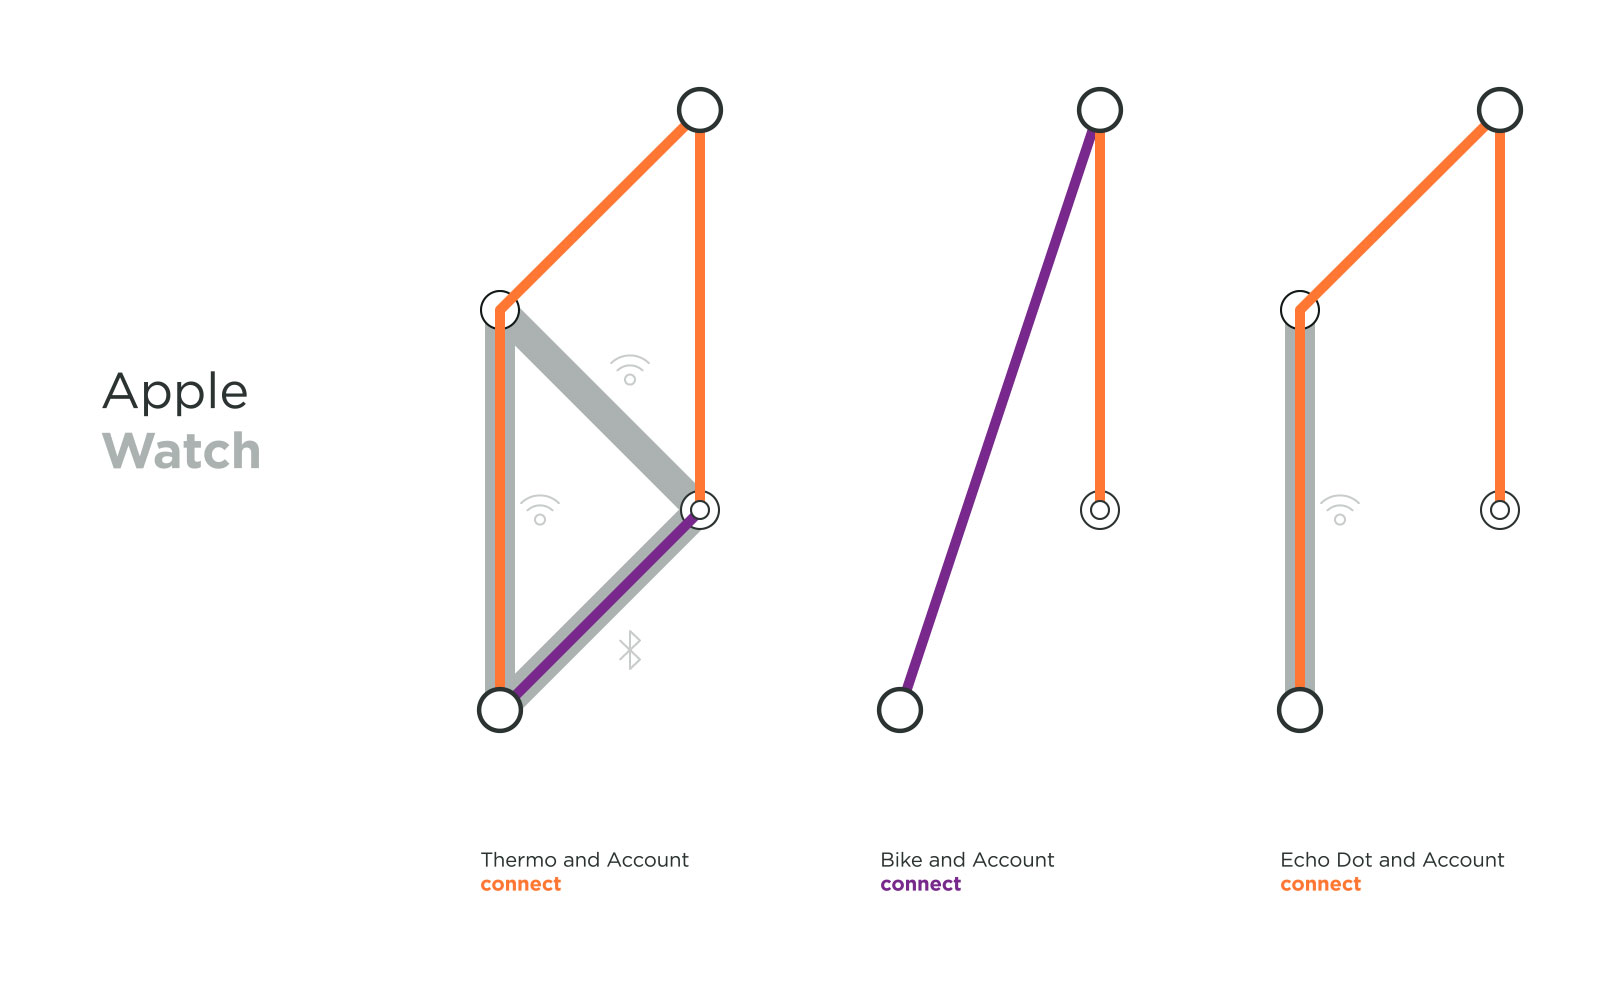
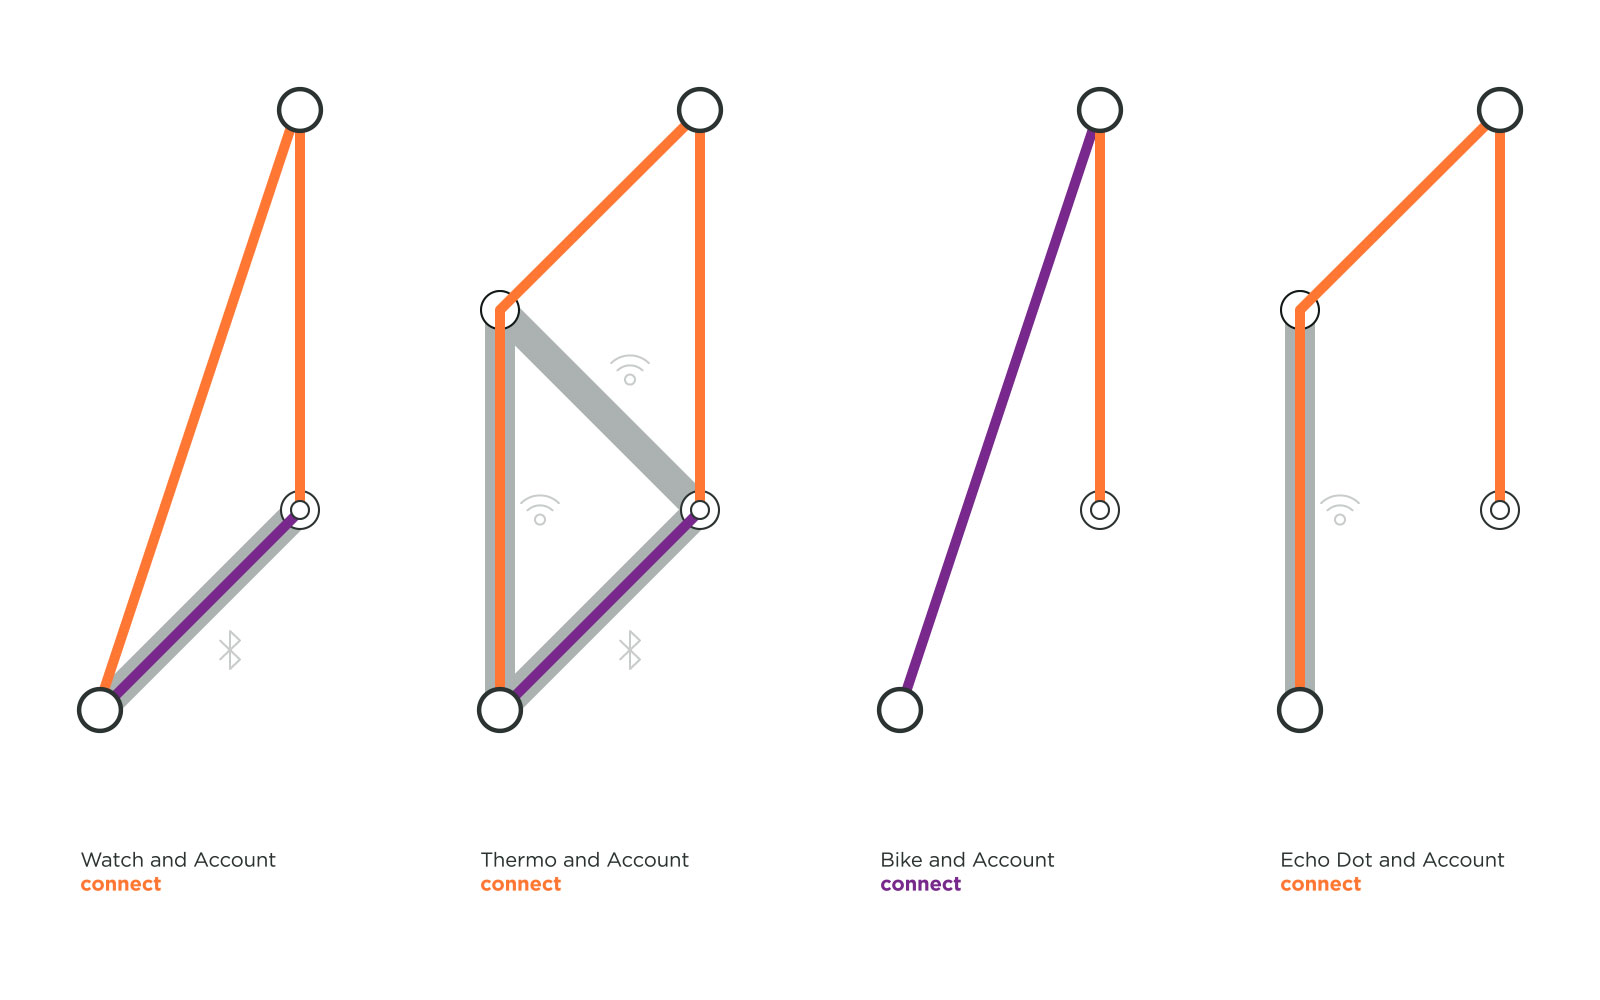
article update
-gifs in matrix are the real Things
-images fixed in the pattern part

Changed region(s): [[0.0312, 0.093, 0.2188, 0.744], [0.0625, 0.837, 0.1875, 0.899]]

diff --git a/source/blog/2018/02-02-connection-flows.html.md b/source/blog/2018/02-02-connection-flows.html.md
@@ -17,11 +17,13 @@ As we were researching around twenty connected products, we established a framew
 
 | | | | |
 |-|-|-|-|
-| <img style="width:20%">![things](02-02-connection-flows/p_240-380.gif) | <img style="width:20%">![things](02-02-connection-flows/p_240-380.gif) | <img style="width:20%">![things](02-02-connection-flows/p_240-380.gif) | <img style="width:20%">![things](02-02-connection-flows/p_240-380.gif) |
-| <img style="width:20%">![things](02-02-connection-flows/p_240-380.gif) | <img style="width:20%">![things](02-02-connection-flows/p_240-380.gif) | <img style="width:20%">![things](02-02-connection-flows/p_240-380.gif) | <img style="width:20%">![things](02-02-connection-flows/p_240-380.gif) |
-| <img style="width:20%">![things](02-02-connection-flows/p_240-380.gif) | <img style="width:20%">![things](02-02-connection-flows/p_240-380.gif) | <img style="width:20%">![things](02-02-connection-flows/p_240-380.gif) | <img style="width:20%">![things](02-02-connection-flows/p_240-380.gif) |
-| <img style="width:20%">![things](02-02-connection-flows/p_240-380.gif) | <img style="width:20%">![things](02-02-connection-flows/p_240-380.gif) | <img style="width:20%">![things](02-02-connection-flows/p_240-380.gif) | <img style="width:20%">![things](02-02-connection-flows/p_240-380.gif) |
-| <img style="width:20%">![things](02-02-connection-flows/p_240-380.gif) | <img style="width:20%">![things](02-02-connection-flows/p_240-380.gif) | <img style="width:20%">![things](02-02-connection-flows/p_240-380.gif) | <img style="width:20%">![things](02-02-connection-flows/p_240-380.gif) |
+| <img style="width:20%">![UE Mini Boom](02-02-connection-flows/to_miniboom.gif) | <img style="width:20%">![Bose SoundLink II](02-02-connection-flows/to_soundlink2.gif) | <img style="width:20%">![Sensible Object Beast Of Balance](02-02-connection-flows/to_bob.gif) | <img style="width:20%">![Apple Pencil](02-02-connection-flows/to_pencil.gif) |
+| <img style="width:20%">![Polaroid Cube+](02-02-connection-flows/to_cubeplus.gif) | <img style="width:20%">![Olympus EM10 camera](02-02-connection-flows/to_em10.gif) | <img style="width:20%">![Philips HUE](02-02-connection-flows/to_hue.gif) | <img style="width:20%">![Apple airpods](02-02-connection-flows/to_airpods.gif) |
+| <img style="width:20%">![Philips Sonicare DiamondClean](02-02-connection-flows/to_diamondclean.gif) | <img style="width:20%">![Spire Stone](02-02-connection-flows/to_spire.gif)  | <img style="width:20%">![Niantic Pokemon Go Plus](02-02-connection-flows/to_pokemongoplus.gif) | <img style="width:20%">![Foldio360 turntable](02-02-connection-flows/to_foldio.gif) |
+| <img style="width:20%">![Amazon Kindle](02-02-connection-flows/to_kindle.gif) | <img style="width:20%">![Amazon Echo Show](02-02-connection-flows/to_echoshow.gif) | <img style="width:20%">![Apple Watch](02-02-connection-flows/to_watch.gif) | <img style="width:20%">![VanMoof Electrified S](02-02-connection-flows/to_electrifieds.gif) |
+| <img style="width:20%">![Apple TV](02-02-connection-flows/to_tv.gif) | <img style="width:20%">![Amazon Echo Dot](02-02-connection-flows/to_echodot.gif) | <img style="width:20%">![things](02-02-connection-flows/to_aura.gif) | <img style="width:20%">![things](02-02-connection-flows/to_thermo.gif) |
+
+
 
 
 ---
@@ -86,11 +88,9 @@ VanMoof created an electric city bike with location tracking and a connected loc
 
 Actors can follow different scripts to reach the end goal of connectivity. Twenty products are a short list, but it is a start to identifying similar practices. We could already observe patterns emerging from our animations based on the technology, the function of the objet and the data exchange. We imagine that the more connection flows we create, the more patterns we will spot.
 
+![Broadcasting to authenticate](02-02-connection-flows/pattern_broadcasting.gif)
 **Broadcasting to authenticate**
-![Broadcasting to authenticate](02-02-connection-flows/pattern_broadcasting.jpg)
-/add image/
-
-To connect, no matter the technology used, the Thing and the other concerned actor need to talk, one emits a signal and the other one listens. There are different methods to have a Thing to broadcast. The signal can be constant or triggered. Philips Sonicare smart toothbrush called DiamondClean wakes up when the handle is moved thanks to an accelerometer sensor. Apple Airpods wireless earplugs start emitting when their charging case opens. Some other products use a button like Polaroid Cube+ camera or UE MiniBoom portable speaker. On the other hand, some Things are constantly broadcasting if they have power. This is the case of Spire, a wearable that tracks the user breathing pace to reduce stress.
+To connect, no matter the technology used, the Thing and the other concerned actor need to talk, one emits a signal and the other one listens. There are different methods to have a Thing to broadcast. The signal can be constant or triggered. Philips Sonicare smart toothbrush called DiamondClean wakes up when the handle is moved thanks to an accelerometer sensor. Apple Airpods wireless earplugs start emitting when their charging case opens. Some other products use a button like Polaroid Cube+ camera or UE MiniBoom portable speaker. On the other hand, some Things are constantly broadcasting if they have power. This is the case of Spire, a wearable that tracks the user breathing pace to reduce stress, that does not need an action from the user to broadcast. For the topology to feel lighter, we just show when broadcasting is relevant to the story. For the same reason, we don't show either that home Wi-Fi also constantly broadcasts.
 
 ![basic connection](02-02-connection-flows/pattern_basic.jpg)
 **Basic Connection**
